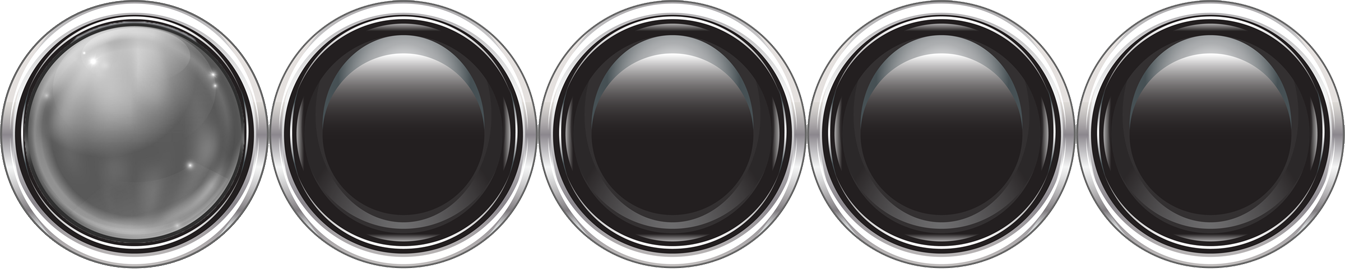
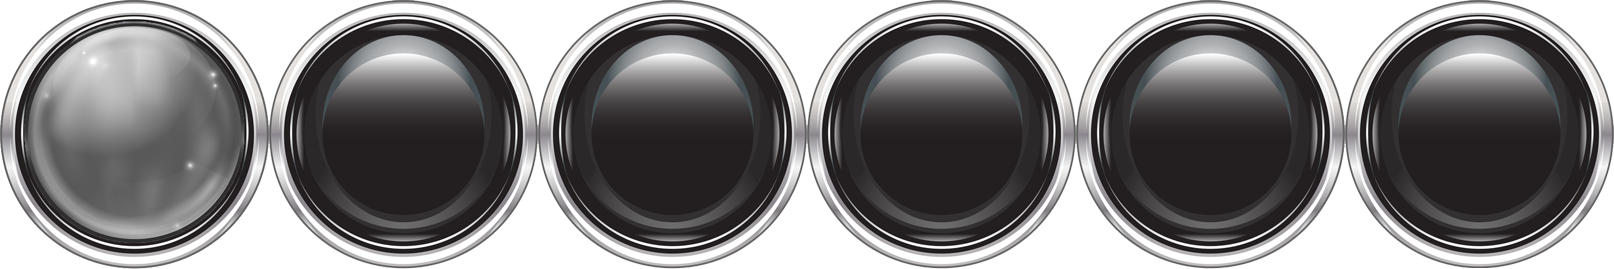
adicionando novos botoes e textos no menu

diff --git a/CV_Web/index.html b/CV_Web/index.html
@@ -19,16 +19,17 @@
     <div class="clearfix">
 		<div id="dMenu">
 			<ul id="menu">
-				<li><a href="#" onmouseover="trocarPag(0)" class="texto" title="Clique para voltar para a página inicial">Home <i class='fas fa-home'></i></a></li>
-				<li><a href="#" onmouseover="trocarPag(1)" class="texto" title="Corte, desenho e tratamento de barba">Barba <i class='fas fa-ruler'></i></a></li>
-				<li><a href="#" onmouseover="trocarPag(2)" class="texto" title="Corte, desenho e tratamento de cabelo">Cabelo <i class='fas fa-cut'></i></a></li>
-				<li><a href="#" onmouseover="trocarPag(3)" class="texto" title="Corte, desenho e tratamento de bigode">Bigode <i class='fas fa-ruler'></i></a></li>
-				<li><a href="#" onmouseover="trocarPag(4)" class="texto" title="Barba, cabelo e bigode - tratamento completo">Serviço completo <i class='fas fa-cut'></i></a></li>
-				<li><a href="#" onmouseover="trocarPag(5)" class="texto" title="Os melhores produtos para homens">Barber Shop <i class='fas fa-dollar-sign'></i></a></li>
+				<li><a href="#" onmouseover="trocarPag(0)" class="texto" title="Clique para voltar para a página inicial">Introdução <i class='fas fa-home'></i></a></li>
+				<li><a href="#" onmouseover="trocarPag(1)" class="texto" title="Corte, desenho e tratamento de barba">Dados Pessoais <i class='fas fa-ruler'></i></a></li>
+				<li><a href="#" onmouseover="trocarPag(2)" class="texto" title="Corte, desenho e tratamento de cabelo">Formação Acadêmica <i class='fas fa-cut'></i></a></li>
+				<li><a href="#" onmouseover="trocarPag(3)" class="texto" title="Corte, desenho e tratamento de bigode">Experiência Profissional <i class='fas fa-ruler'></i></a></li>
+				<li><a href="#" onmouseover="trocarPag(4)" class="texto" title="Barba, cabelo e bigode - tratamento completo">Cursos <i class='fas fa-cut'></i></a></li>
+				<li><a href="#" onmouseover="trocarPag(5)" class="texto" title="Os melhores produtos para homens">Atividades Extracurriculares <i class='fas fa-dollar-sign'></i></a></li>
 			</ul>
 		</div>
 		<div id="dImagem">
-            <iframe name="content" name="framehtml" id="framehtml" src="conteudo/curric0.html" height="450px"> </iframe>
+            <iframe name="content" name="framehtml" id="framehtml" src="conteudo/curric0.html" height="300px" width="600px"> </iframe>
+            <!--<img src="img/barbearia0.jpg" id="barber" alt="CavanhaMan">-->
             <img src="img/buttons0.png" id="botoes" alt="Botoes">
 		</div>
     </div>

diff --git a/CV_Web/css/estilos.css b/CV_Web/css/estilos.css
@@ -13,7 +13,7 @@ body{
 ul{
     list-style: none;
     padding: 0px;
-    width: 270px;
+    width: 370px;
 }
 ul, li{margin: 10px 0px 10px 0px;}
 li a{
@@ -23,7 +23,6 @@ li a{
     font-size: 30px;
     background-color:rgb(0, 0, 0);
     border-radius: 0px 40px 40px 0px;
-    font-weight: bold;
     font-family: Arial;
     padding: 10px;
     display: block;
@@ -31,7 +30,7 @@ li a{
 }
 li :hover{
     background-color: rgb(31, 31, 31);
-    color: rgb(225, 226, 156);
+    color: rgb(161, 161, 161);
     border-radius: 0px 40px 40px 0px;
     transform-origin: top left;
     transform: scaleX(1.1);
@@ -44,7 +43,7 @@ li :hover{
 }
 #dMenu {width: 300px;}
 #dImagem {width: 900px;}
-#barber{
+#framehtml{
     /*codigo para centralizar horizontal e verticalmente:*/
     margin: 0;
     position: absolute;
@@ -110,7 +109,7 @@ li :hover{
     /*codigo para centralizar horizontalmente:*/
     margin: 0;
     position: absolute;
-    bottom: -60px;
+    bottom: 15px;
     left: 50%;
     transform: translate(-50%);
 }
@@ -125,12 +124,6 @@ li :hover{
     bottom: 30px;
     left: 50%;
     transform: translate(-50%);
-}
-#tesoura{
-    position: absolute;
-    top: 10px;
-    right: 10px;
-    width: 90px;
 }
 .none{
     visibility: collapse; 
